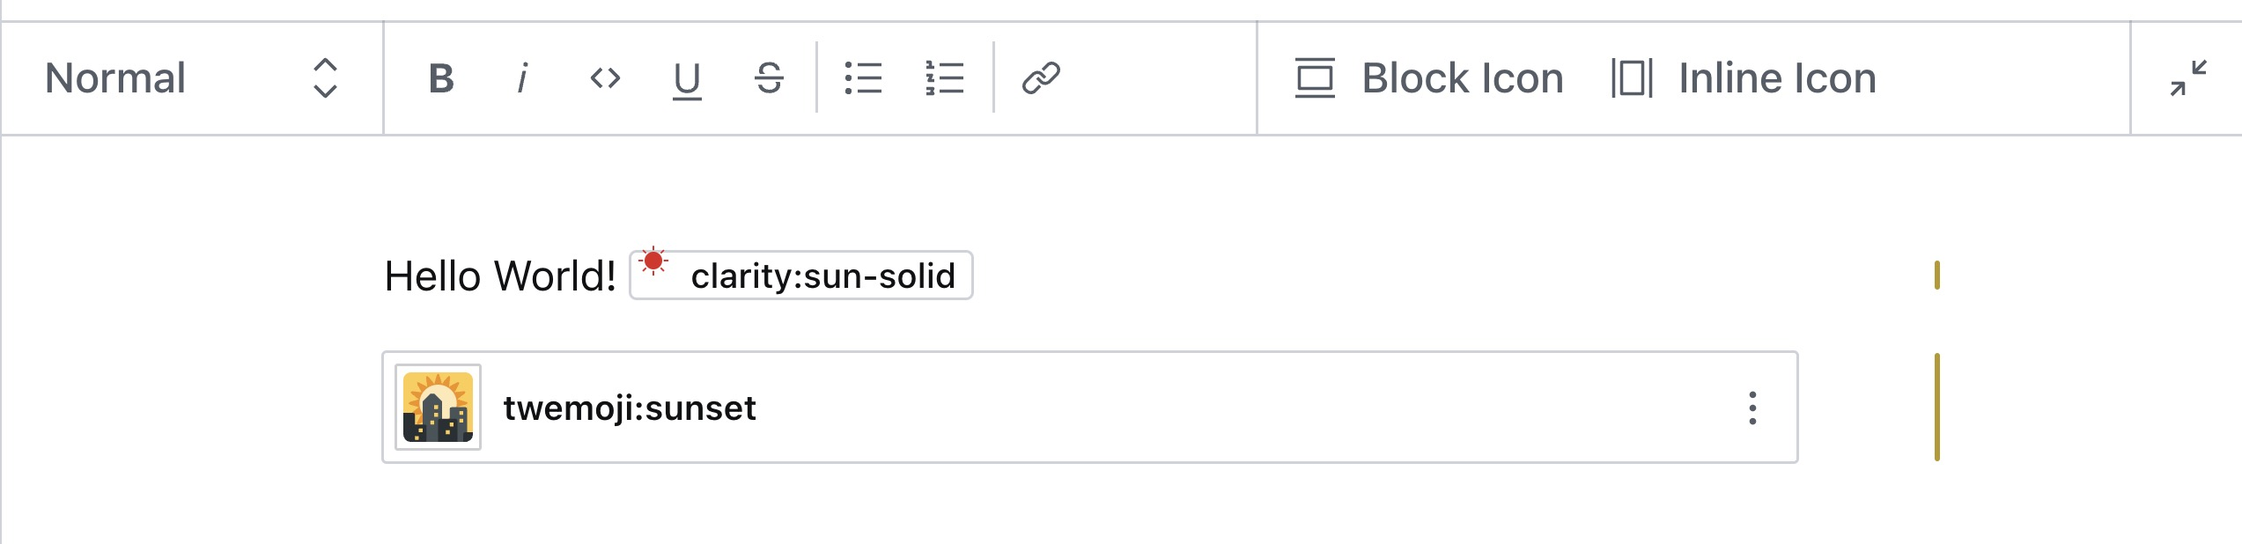
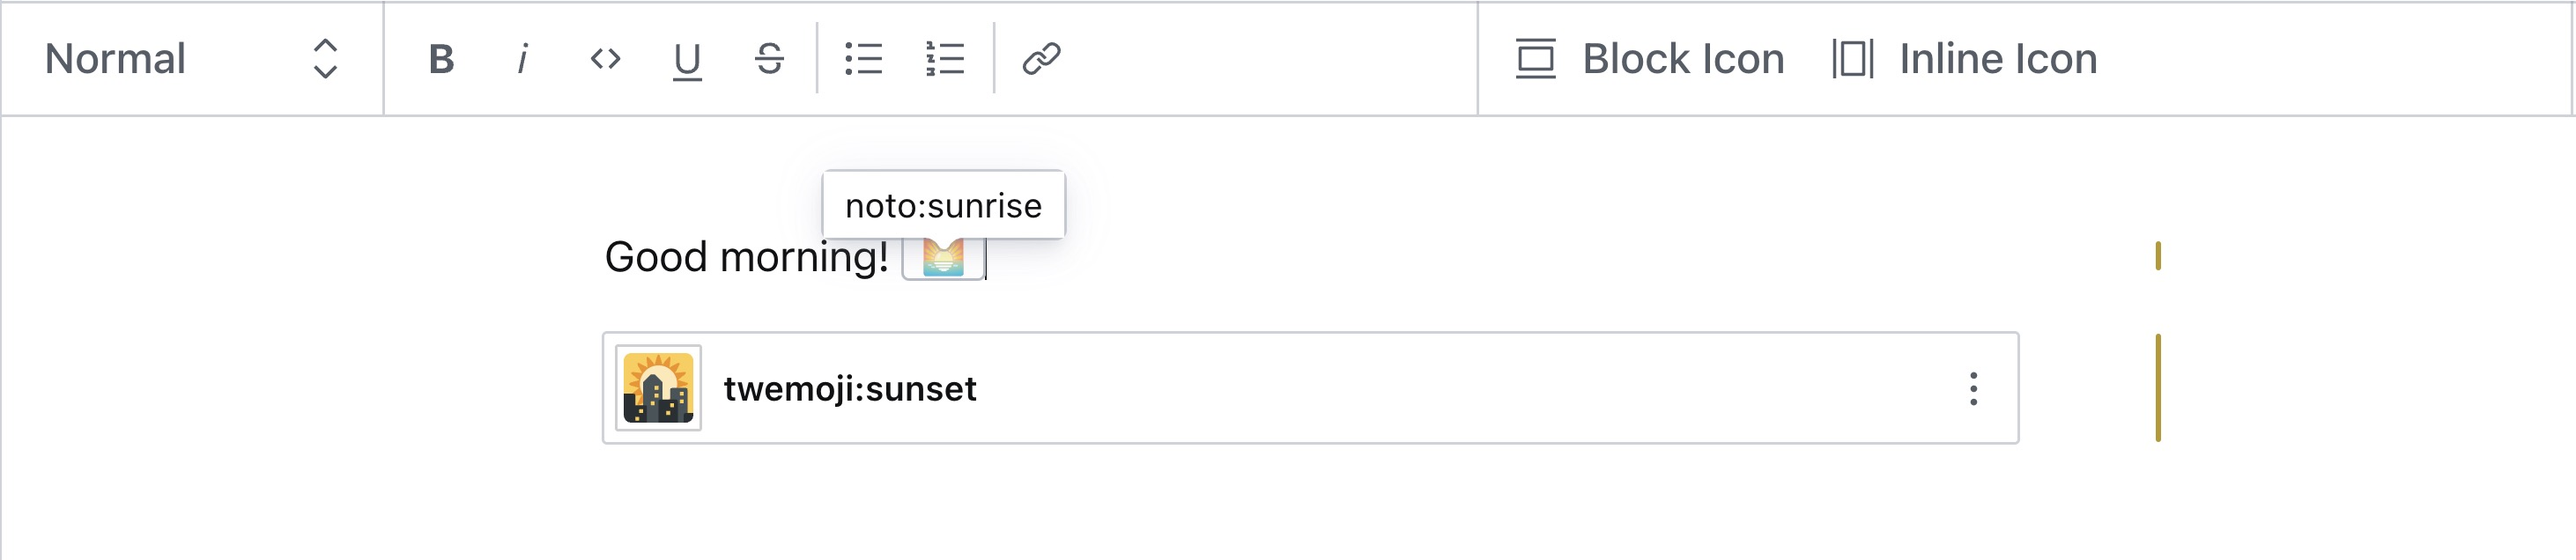
chore: tooltip for inline preview + image update

diff --git a/src/components/IconManagerInlineBlockComponent/index.tsx b/src/components/IconManagerInlineBlockComponent/index.tsx
@@ -1,3 +1,4 @@
+import {Card, Text, Tooltip} from '@sanity/ui'
 import {BlockProps} from 'sanity'
 import {IconManagerType} from '../../types/IconManagerType'
 import IconPreview from '../IconPreview'
@@ -8,14 +9,24 @@ const IconManagerInlineBlockComponent = (props: BlockProps) => {
   const value = props.value as unknown as IconManagerType
   const hasValidIcon = value.icon && value.metadata
   const IconInlinePreview = () => (
-    <div style={{padding: '0 10px'}}>
-      <IconPreview
-        value={{icon: value.icon, metadata: value.metadata}}
-        width='1rem'
-        height='1rem'
-        hideText
-      />
-    </div>
+    <Tooltip
+      portal
+      placement='top'
+      content={
+        <Card padding={2}>
+          <Text size={1}>{value.icon}</Text>
+        </Card>
+      }
+    >
+      <div style={{padding: '0 10px'}}>
+        <IconPreview
+          value={{icon: value.icon, metadata: value.metadata}}
+          width='1rem'
+          height='1rem'
+          hideText
+        />
+      </div>
+    </Tooltip>
   )
 
   return props.renderDefault({
